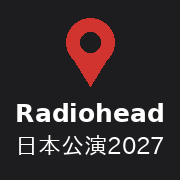
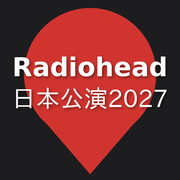
アイコンを大きなピンに文字を重ねたデザインに変更
Claude-Session: https://claude.ai/code/session_01CjuCr1VctogBegfmuWkTKr

diff --git a/index.html b/index.html
@@ -9,7 +9,7 @@
 <meta name="apple-mobile-web-app-title" content="東京6月">
 <meta name="apple-mobile-web-app-status-bar-style" content="default">
 <meta name="theme-color" content="#ffffff">
-<link rel="apple-touch-icon" href="icon-180.png?v=2">
+<link rel="apple-touch-icon" href="icon-180.png?v=3">
 <link rel="manifest" href="manifest.webmanifest">
 <link rel="stylesheet" href="vendor/leaflet/leaflet.css">
 <link rel="stylesheet" href="style.css">

diff --git a/edit.html b/edit.html
@@ -6,7 +6,7 @@
 <title>確定と日程の編集</title>
 <meta name="apple-mobile-web-app-capable" content="yes">
 <meta name="theme-color" content="#ffffff">
-<link rel="apple-touch-icon" href="icon-180.png?v=2">
+<link rel="apple-touch-icon" href="icon-180.png?v=3">
 <link rel="stylesheet" href="style.css">
 <style>
   body { overflow-y: auto; }
